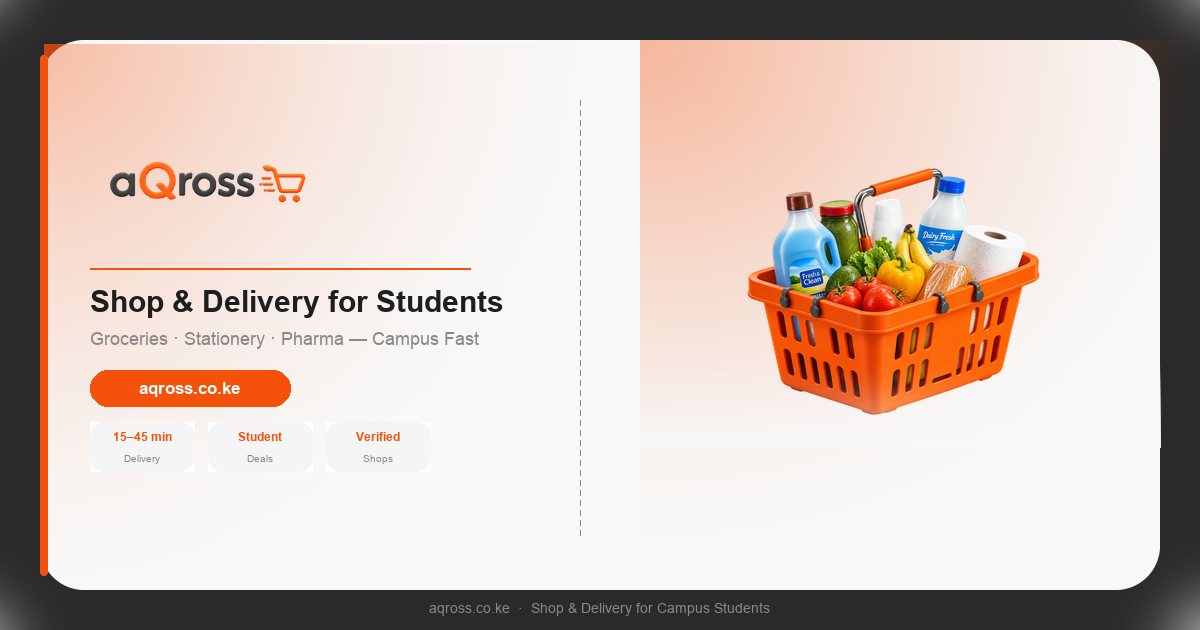
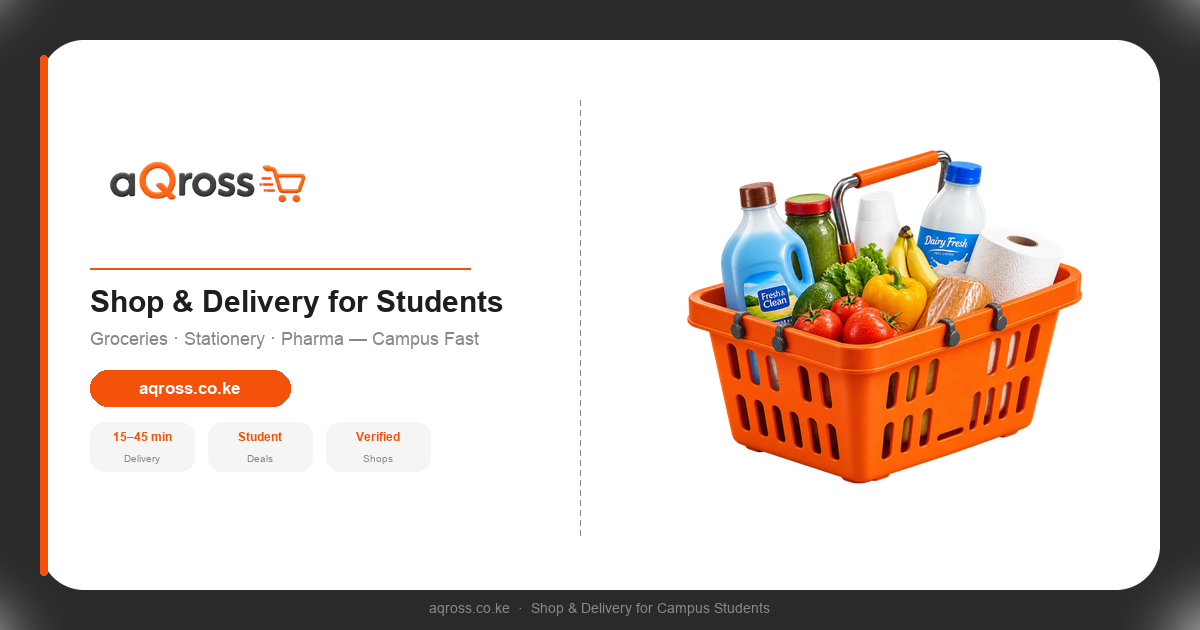
fix: consistent splash on all load types + clean OG image
Splash screen (consistent on hard refresh, soft refresh, SW-cached):
- Moved splash from React useState into a static HTML <div id=aqross-splash>
  inside RootShell <body> — rendered server-side/SSR so it appears
  BEFORE any JS executes, on every load type with zero flash
- RootComponent now finds the div by ID on mount, waits 400ms for first
  paint to settle, then fades it out (opacity transition 300ms) and removes it
- Removed SplashScreen React component import and useState timer from root
- Result: identical splash experience on hard refresh, soft refresh,
  SW-cached load, and every in-app navigation reload

OG social preview image (public/og-image.png):
- Removed all gradients (left-column orange veil, right-column veils, ambient glow)
- Pure white background throughout (SURFACE = 255,255,255)
- Basket scaled up to 460x440 max (was 340x310) — fills the right half
- Cleaner, more readable card matching the reference design

diff --git a/src/routes/__root.tsx b/src/routes/__root.tsx
@@ -7,14 +7,13 @@ import {
   HeadContent,
   Scripts,
 } from "@tanstack/react-router";
-import { useEffect, useState, type ReactNode } from "react";
+import { useEffect, type ReactNode } from "react";
 import { Toaster } from "sonner";
 
 import appCss from "../styles.css?url";
 import { reportLovableError } from "../lib/lovable-error-reporting";
 import { CartProvider } from "../lib/cart";
 import { LocationProvider } from "../lib/location";
-import { SplashScreen } from "../components/brand/SplashScreen";
 
 function NotFoundComponent() {
   return (
@@ -143,10 +142,96 @@ function RootShell({ children }: { children: ReactNode }) {
         <HeadContent />
       </head>
       <body>
+        {/*
+         * Static HTML splash — rendered server-side so it appears
+         * BEFORE any JS loads, on every load type (hard, soft, SW-cached).
+         * React removes it in RootComponent once the app is ready.
+         */}
+        <div
+          id="aqross-splash"
+          style={{
+            position: "fixed",
+            inset: 0,
+            zIndex: 9999,
+            background: "#ffffff",
+            display: "flex",
+            flexDirection: "column",
+            alignItems: "center",
+            justifyContent: "center",
+            gap: "24px",
+          }}
+        >
+          <img
+            src="/aQross logo-no bg.png"
+            alt="aQross"
+            style={{ height: "96px", width: "auto", objectFit: "contain" }}
+          />
+          <p
+            style={{
+              fontFamily: "Poppins, system-ui, sans-serif",
+              fontSize: "0.875rem",
+              fontWeight: 600,
+              letterSpacing: "0.05em",
+              color: "rgba(244,81,11,0.7)",
+              margin: 0,
+            }}
+          >
+            Shop &amp; Deliver, Campus Fast
+          </p>
+          <div style={{ display: "flex", alignItems: "center", gap: "8px" }}>
+            {[0, 1, 2].map((i) => (
+              <span
+                key={i}
+                style={{
+                  display: "block",
+                  height: "8px",
+                  width: "8px",
+                  borderRadius: "50%",
+                  background: "#F4510B",
+                  opacity: 0.8,
+                  animation: `_aq_bounce 1.2s ease-in-out ${i * 0.2}s infinite`,
+                }}
+              />
+            ))}
+          </div>
+          {/* Progress bar */}
+          <div
+            style={{
+              position: "absolute",
+              bottom: 0,
+              left: 0,
+              right: 0,
+              height: "4px",
+              overflow: "hidden",
+            }}
+          >
+            <div
+              style={{
+                height: "100%",
+                width: "33%",
+                borderRadius: "9999px",
+                background: "#F4510B",
+                animation: "_aq_slide 1.4s ease-in-out infinite",
+              }}
+            />
+          </div>
+          <style>{`
+            @keyframes _aq_bounce {
+              0%,80%,100% { transform:translateY(0);   opacity:0.4; }
+              40%          { transform:translateY(-8px); opacity:1;   }
+            }
+            @keyframes _aq_slide {
+              0%   { transform:translateX(-100%); }
+              50%  { transform:translateX(150%);  }
+              100% { transform:translateX(350%);  }
+            }
+          `}</style>
+        </div>
+
         {children}
         <Scripts />
-        {/* Register service worker — intercepts every navigation so the
-            cached shell loads instantly, bypassing the browser loading UI */}
+
+        {/* Service worker registration */}
         <script
           dangerouslySetInnerHTML={{
             __html: `
@@ -166,15 +251,19 @@ if ('serviceWorker' in navigator) {
 
 function RootComponent() {
   const { queryClient } = Route.useRouteContext();
-  const [splash, setSplash] = useState(true);
 
   useEffect(() => {
-    // Show splash for at least 1.4 s so the logo registers visually
-    const t = setTimeout(() => setSplash(false), 1400);
+    // Remove the static HTML splash once React has mounted and is ready.
+    // A small delay ensures the first paint is complete before hiding.
+    const el = document.getElementById("aqross-splash");
+    if (!el) return;
+    const t = setTimeout(() => {
+      el.style.transition = "opacity 0.3s ease";
+      el.style.opacity = "0";
+      setTimeout(() => el.remove(), 320);
+    }, 400);
     return () => clearTimeout(t);
   }, []);
-
-  if (splash) return <SplashScreen />;
 
   return (
     <QueryClientProvider client={queryClient}>

diff --git a/scripts/gen-og.py b/scripts/gen-og.py
@@ -21,7 +21,7 @@ OUT  = os.path.join(ROOT, "public", "og-image.png")
 W, H = 1200, 630
 BRAND   = (244, 81,  11)
 WHITE   = (255, 255, 255)
-SURFACE = (248, 248, 248)
+SURFACE = (255, 255, 255)   # pure white — no tint
 DARK    = ( 30,  30,  30)
 MUTED   = (136, 136, 136)
 LIGHT   = (245, 245, 245)
@@ -155,30 +155,6 @@ for y in range(100, 540, 10):
 # ── LEFT COLUMN ──────────────────────────────────────────────────────────────
 LEFT_X = 90
 
-# ── Translucent orange veil — sweeping diagonal wash across entire left half ─
-# Build at small size, blur heavily, scale up for a smooth cinematic look
-VEIL_W, VEIL_H = 80, 60
-veil_tile = Image.new("RGBA", (VEIL_W, VEIL_H), (0, 0, 0, 0))
-vt = veil_tile.load()
-for row in range(VEIL_H):
-    for col in range(VEIL_W):
-        # radial from top-left corner, smooth falloff
-        nx = col / VEIL_W   # 0→1 left to right
-        ny = row / VEIL_H   # 0→1 top to bottom
-        # elliptical distance from top-left origin
-        dist = (nx ** 1.8 + ny ** 1.8) ** (1 / 1.8)
-        a = int(90 * max(0.0, 1.0 - dist) ** 1.6)
-        vt[col, row] = (*BRAND, max(0, a))
-
-# Scale to cover the whole left column of the card
-veil_scaled = veil_tile.resize((560, 560), Image.LANCZOS)
-# Blur for silky smooth transition
-veil_scaled = veil_scaled.filter(ImageFilter.GaussianBlur(14))
-logo_veil   = Image.new("RGBA", (W, H), (0, 0, 0, 0))
-logo_veil.paste(veil_scaled, (CX + 4, CY + 4))
-canvas = Image.alpha_composite(canvas, logo_veil)
-draw = ImageDraw.Draw(canvas)
-
 # Logo — large: up to 420 × 130
 logo_path = os.path.join(ROOT, "public", "aQross logo-no bg.png")
 if os.path.isfile(logo_path):
@@ -189,7 +165,8 @@ if os.path.isfile(logo_path):
     canvas.paste(logo, (LEFT_X, logo_y), logo)
     logo_bottom = logo_y + lh
 else:
-    draw.text((LEFT_X, 118), "aQross", font=fnt(FONT_BOLD, 60), fill=(*BRAND, 255))
+    f_logo_fb = fnt(FONT_BOLD, 60)
+    draw.text((LEFT_X, 118), "aQross", font=f_logo_fb, fill=(*BRAND, 255))
     logo_bottom = 192
 
 # Divider line
@@ -218,53 +195,19 @@ stat_y = logo_bottom + 174
 for i, (l1, l2) in enumerate([("15–45 min", "Delivery"), ("Student", "Deals"), ("Verified", "Shops")]):
     draw_stat(canvas, LEFT_X + i * 118, stat_y, l1, l2, f_stat_b, f_stat_r)
 
-# ── RIGHT COLUMN: basket with orange veil ────────────────────────────────────
-RCX, RCY = 870, 310   # right column centre
+# ── RIGHT COLUMN: basket, clean white bg, no gradients ───────────────────────
+RCX, RCY = 880, 315
 
-# ── Translucent orange veil — large soft ellipse bleeding from top-right ──────
-# Mimics the hero banner reference: warm orange wash behind the basket,
-# fading smoothly into white toward the left and bottom edges.
-VEIL2_W, VEIL2_H = 80, 80
-veil2_tile = Image.new("RGBA", (VEIL2_W, VEIL2_H), (0, 0, 0, 0))
-v2 = veil2_tile.load()
-for row in range(VEIL2_H):
-    for col in range(VEIL2_W):
-        # origin at top-right; fade toward bottom-left
-        nx = 1.0 - col / VEIL2_W   # 1 at right, 0 at left
-        ny = 1.0 - row / VEIL2_H   # 1 at top,   0 at bottom
-        # elliptical: wider horizontally
-        dist = ((1 - nx) ** 2.2 + (1 - ny) ** 2.2) ** 0.5
-        a = int(100 * max(0.0, 1.0 - dist) ** 1.4)
-        v2[col, row] = (*BRAND, max(0, a))
-
-veil2_scaled = veil2_tile.resize((560, 500), Image.LANCZOS)
-veil2_scaled = veil2_scaled.filter(ImageFilter.GaussianBlur(18))
-basket_veil  = Image.new("RGBA", (W, H), (0, 0, 0, 0))
-# Position: top-right of the card
-basket_veil.paste(veil2_scaled, (W - 560, CY))
-canvas = Image.alpha_composite(canvas, basket_veil)
-draw = ImageDraw.Draw(canvas)
-
-# Basket image — larger, sits on top of the veil
+# Basket image — large, centred in right half
 basket_path = os.path.join(ROOT, "public", "3ce0b937-e727-4591-b5fa-8a8eac6f3d1b.png")
 if os.path.isfile(basket_path):
     basket = Image.open(basket_path).convert("RGBA")
-    basket.thumbnail((340, 310), Image.LANCZOS)
+    # Fill most of the right column height
+    basket.thumbnail((460, 440), Image.LANCZOS)
     bw, bh = basket.size
-    bx = RCX - bw // 2 + 20
-    by = RCY - bh // 2 - 20
+    bx = RCX - bw // 2
+    by = RCY - bh // 2
     canvas.paste(basket, (bx, by), basket)
-
-# Soft bottom-white veil so basket dissolves into card background
-bottom_veil = Image.new("RGBA", (W, H), (0, 0, 0, 0))
-bvd = ImageDraw.Draw(bottom_veil)
-fade_top = by + bh - 60
-for row in range(90):
-    a = int(220 * (row / 90) ** 1.8)
-    y_pos = fade_top + row
-    if 0 <= y_pos < H:
-        bvd.line([(600, y_pos), (W - 40, y_pos)], fill=(*SURFACE, a))
-canvas = Image.alpha_composite(canvas, bottom_veil)
 draw = ImageDraw.Draw(canvas)
 
 # ── Bottom domain strip ───────────────────────────────────────────────────────
